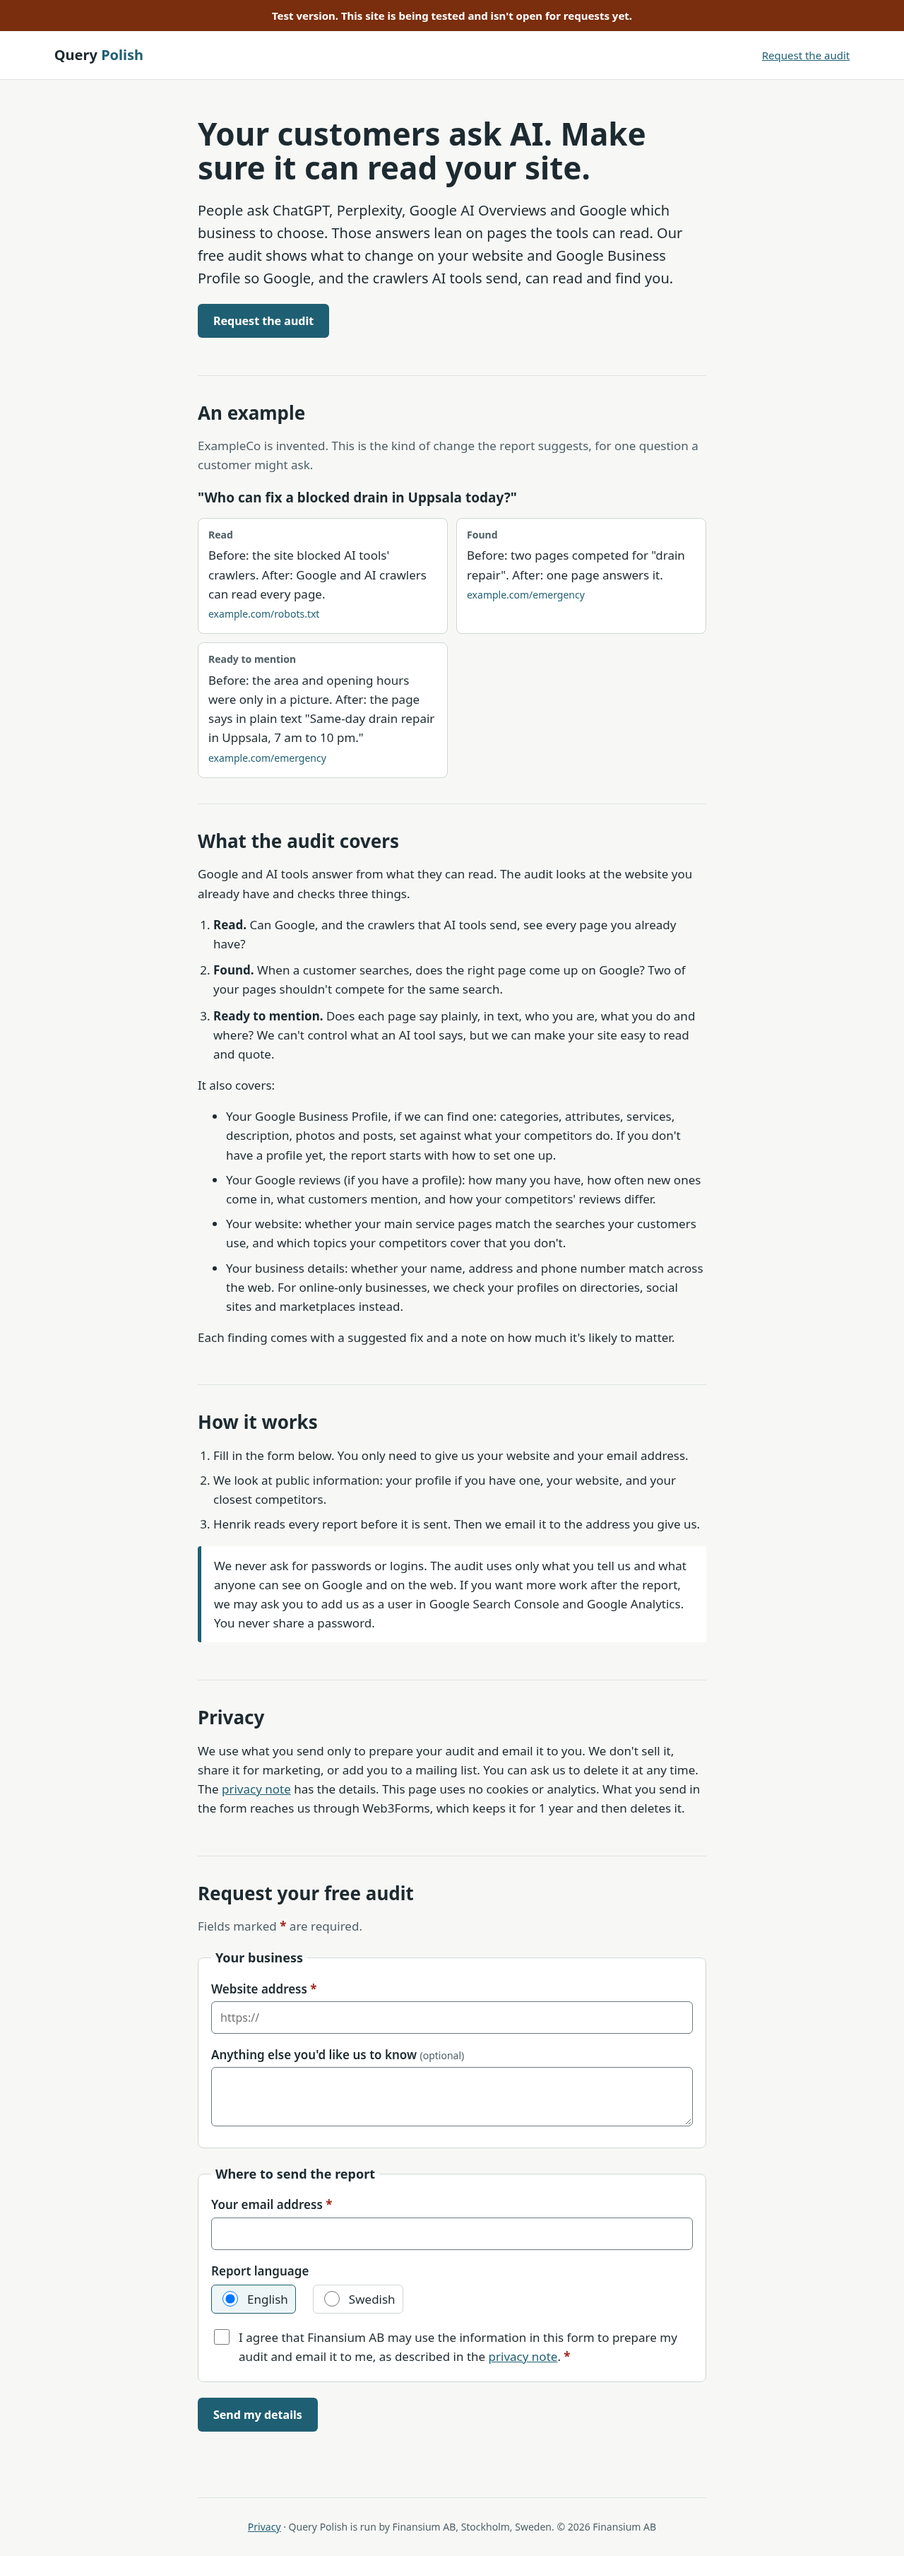
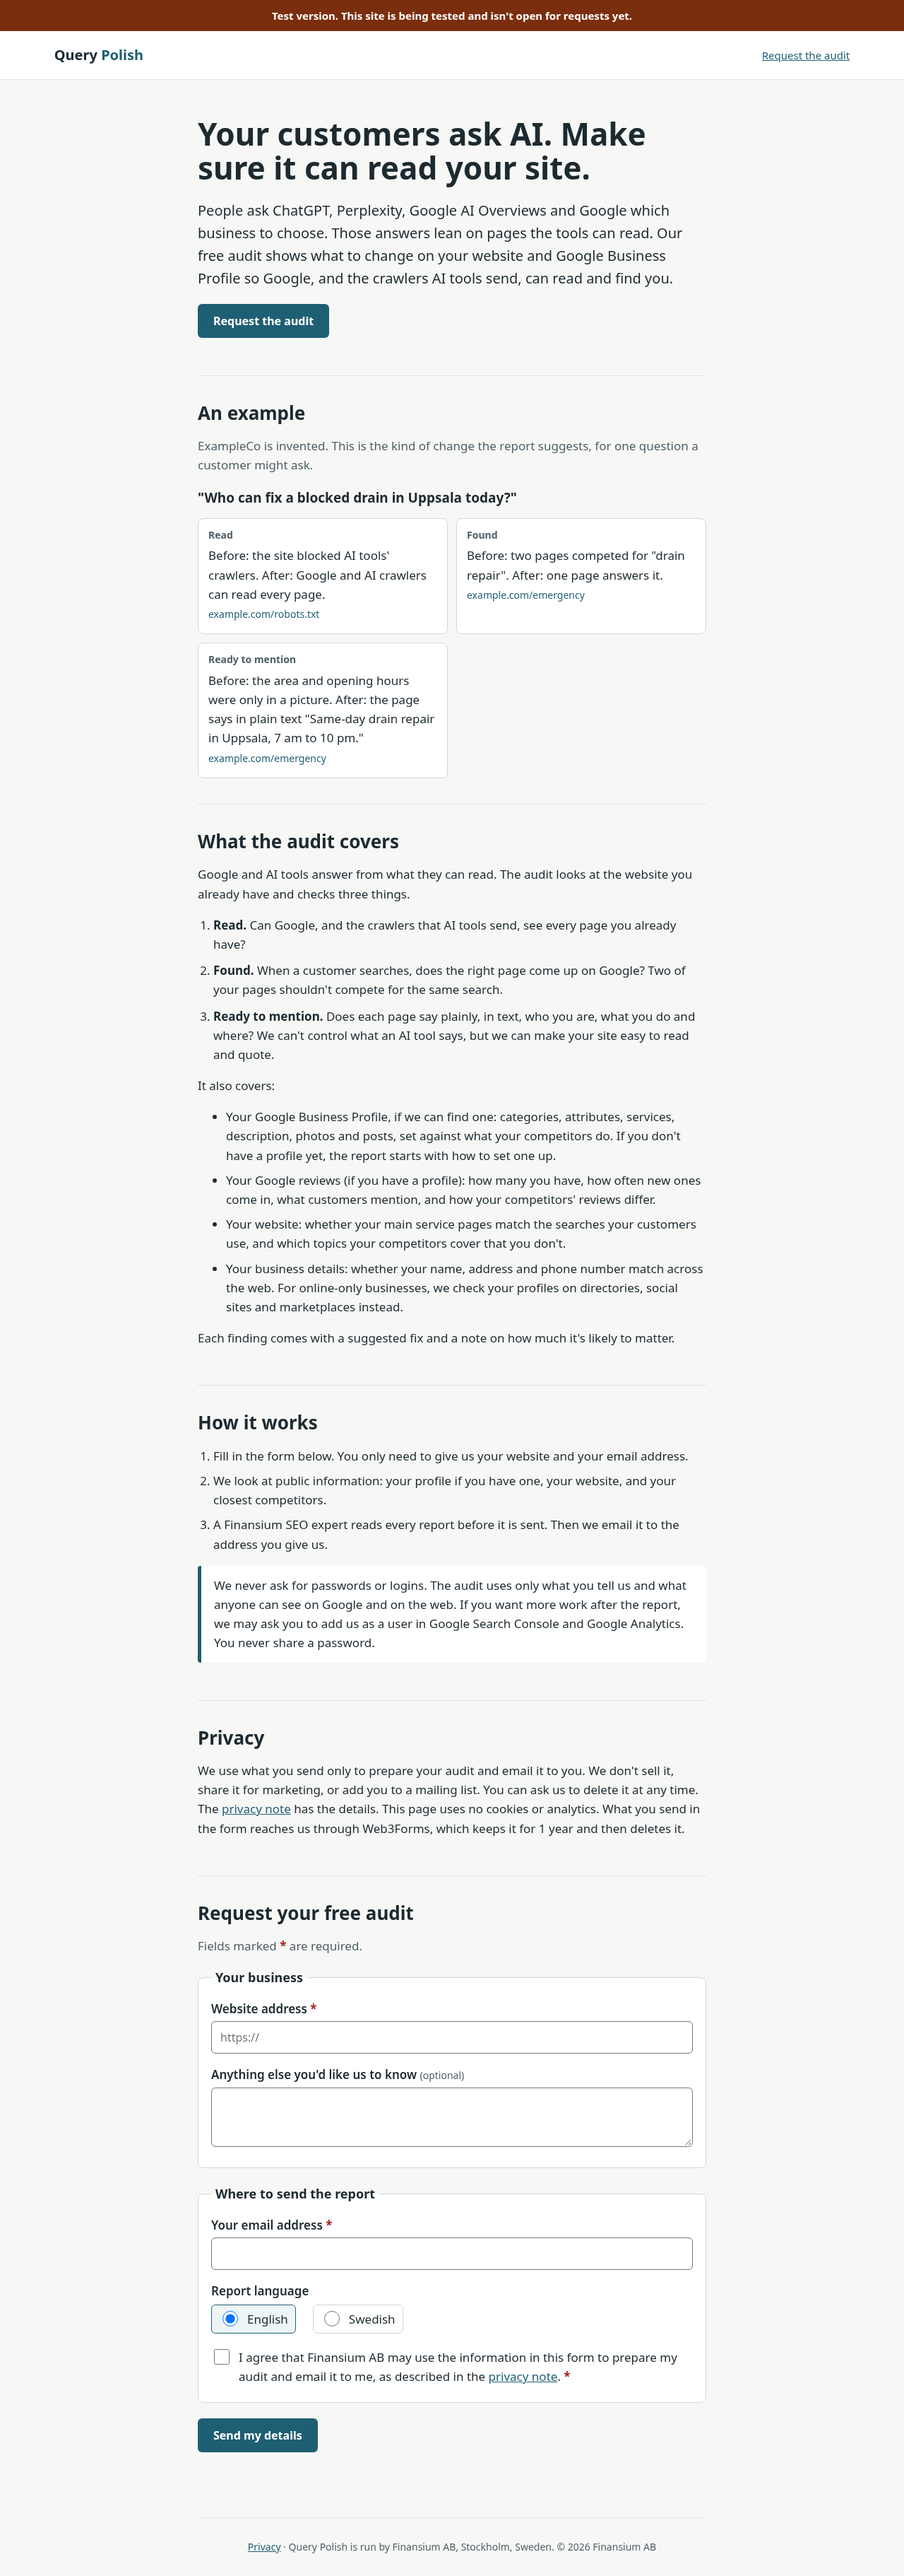
Copy: "A Finansium SEO expert reads every report before it is sent." (Henrik, 23 Oct 06:48); tests expect new line, no "Henrik reads" in docs/

diff --git a/docs/index.html b/docs/index.html
@@ -51,7 +51,7 @@
 <ol class="steps">
 <li>Fill in the form below. You only need to give us your website and your email address.</li>
 <li>We look at public information: your profile if you have one, your website, and your closest competitors.</li>
-<li>Henrik reads every report before it is sent. Then we email it to the address you give us.</li>
+<li>A Finansium SEO expert reads every report before it is sent. Then we email it to the address you give us.</li>
 </ol>
 <p class="note">We never ask for passwords or logins. The audit uses only what you tell us and what anyone can see on Google and on the web. If you want more work after the report, we may ask you to add us as a user in Google Search Console and Google Analytics. You never share a password.</p>
 </section>

diff --git a/tests/run_tests.py b/tests/run_tests.py
@@ -64,11 +64,20 @@ with sync_playwright() as pw:
                     ok(not re.search(r'\bwe\b[^.]{0,30}\b(put|ask|check|test|run)\b[^.]{0,60}\b(ChatGPT|Perplexity|AI Overviews|AI tools?)|answers? (mention|name|include)s?\b|whether the answers|does the (AI )?answer',txt,re.I),f'{path}: no claim that we check AI answers')
                     ok('keeps it for 30 days' not in txt,f'{path}: no unverified 30-day retention claim')
                     ok(len(re.findall(r'reads? (every|the) report',txt,re.I))<=1,f'{path}: report review mentioned at most once')
+                    ok('henrik reads' not in src.lower(),f'{path}: no "Henrik reads" anywhere in served HTML (text, meta, JSON-LD)')
                     ok('?' not in p.title() and all('?' not in h for h in p.eval_on_selector_all('h1,h2,h3','e=>e.map(x=>x.innerText)')),f'{path}: no question mark in title or headings')
                     ok(p.eval_on_selector_all('script[src]','e=>e.map(x=>new URL(x.src).origin)')in([],[p.evaluate('location.origin')]),f'{path}: only same-origin scripts (no hCaptcha/analytics)')
                     ok(p.evaluate('document.cookie')=='' and ctx.cookies()==[],f'{path}: no cookies set')
             ok(not errs,f'@{w}px dpr{dpr}: no console errors/warnings (expected 404 doc on /no-such-page/ excluded) {errs}')
             ctx.close()
+    if not LIVE:
+        _d=os.path.join(os.path.dirname(os.path.abspath(__file__)),'..','docs'); _hits=[]
+        for _r,_ds,_fs in os.walk(_d):
+            for _f in _fs:
+                try: _t=open(os.path.join(_r,_f),encoding='utf-8').read()
+                except Exception: continue
+                if 'henrik reads' in _t.lower(): _hits.append(os.path.relpath(os.path.join(_r,_f),_d))
+        ok(not _hits,f'docs/: no "Henrik reads" in any file {_hits}')
     # robots.txt, sitemap, CNAME
     def fetch(u):
         try: r=urllib.request.urlopen(u,timeout=20); return r.status,r.read().decode('utf-8','replace')
@@ -93,7 +102,8 @@ with sync_playwright() as pw:
     if p.locator('.example').count(): ok('ExampleCo is invented' in p.inner_text('.example'),'example section labelled as invented')
     if 'copy-ai' in os.environ.get('QP_EXPECT',''):
         t=p.inner_text('body')
-        ok(t.count('Henrik reads every report before it is sent.')==1,'home: "Henrik reads every report before it is sent." exactly once')
+        ok(t.count('A Finansium SEO expert reads every report before it is sent. Then we email it to the address you give us.')==1,'home: "A Finansium SEO expert reads every report before it is sent." exactly once')
+        ok('Henrik reads' not in t,'home: no "Henrik reads"')
         ok('add us as a user in Google Search Console and Google Analytics. You never share a password.' in t,'home: Zinsser GSC/GA4 line')
         ok('This page uses no cookies or analytics.' in t,'home: storage line present')
         ok('Your Google Business Profile, if we can find one: categories,' in t,'home: Zinsser GBP edit')
